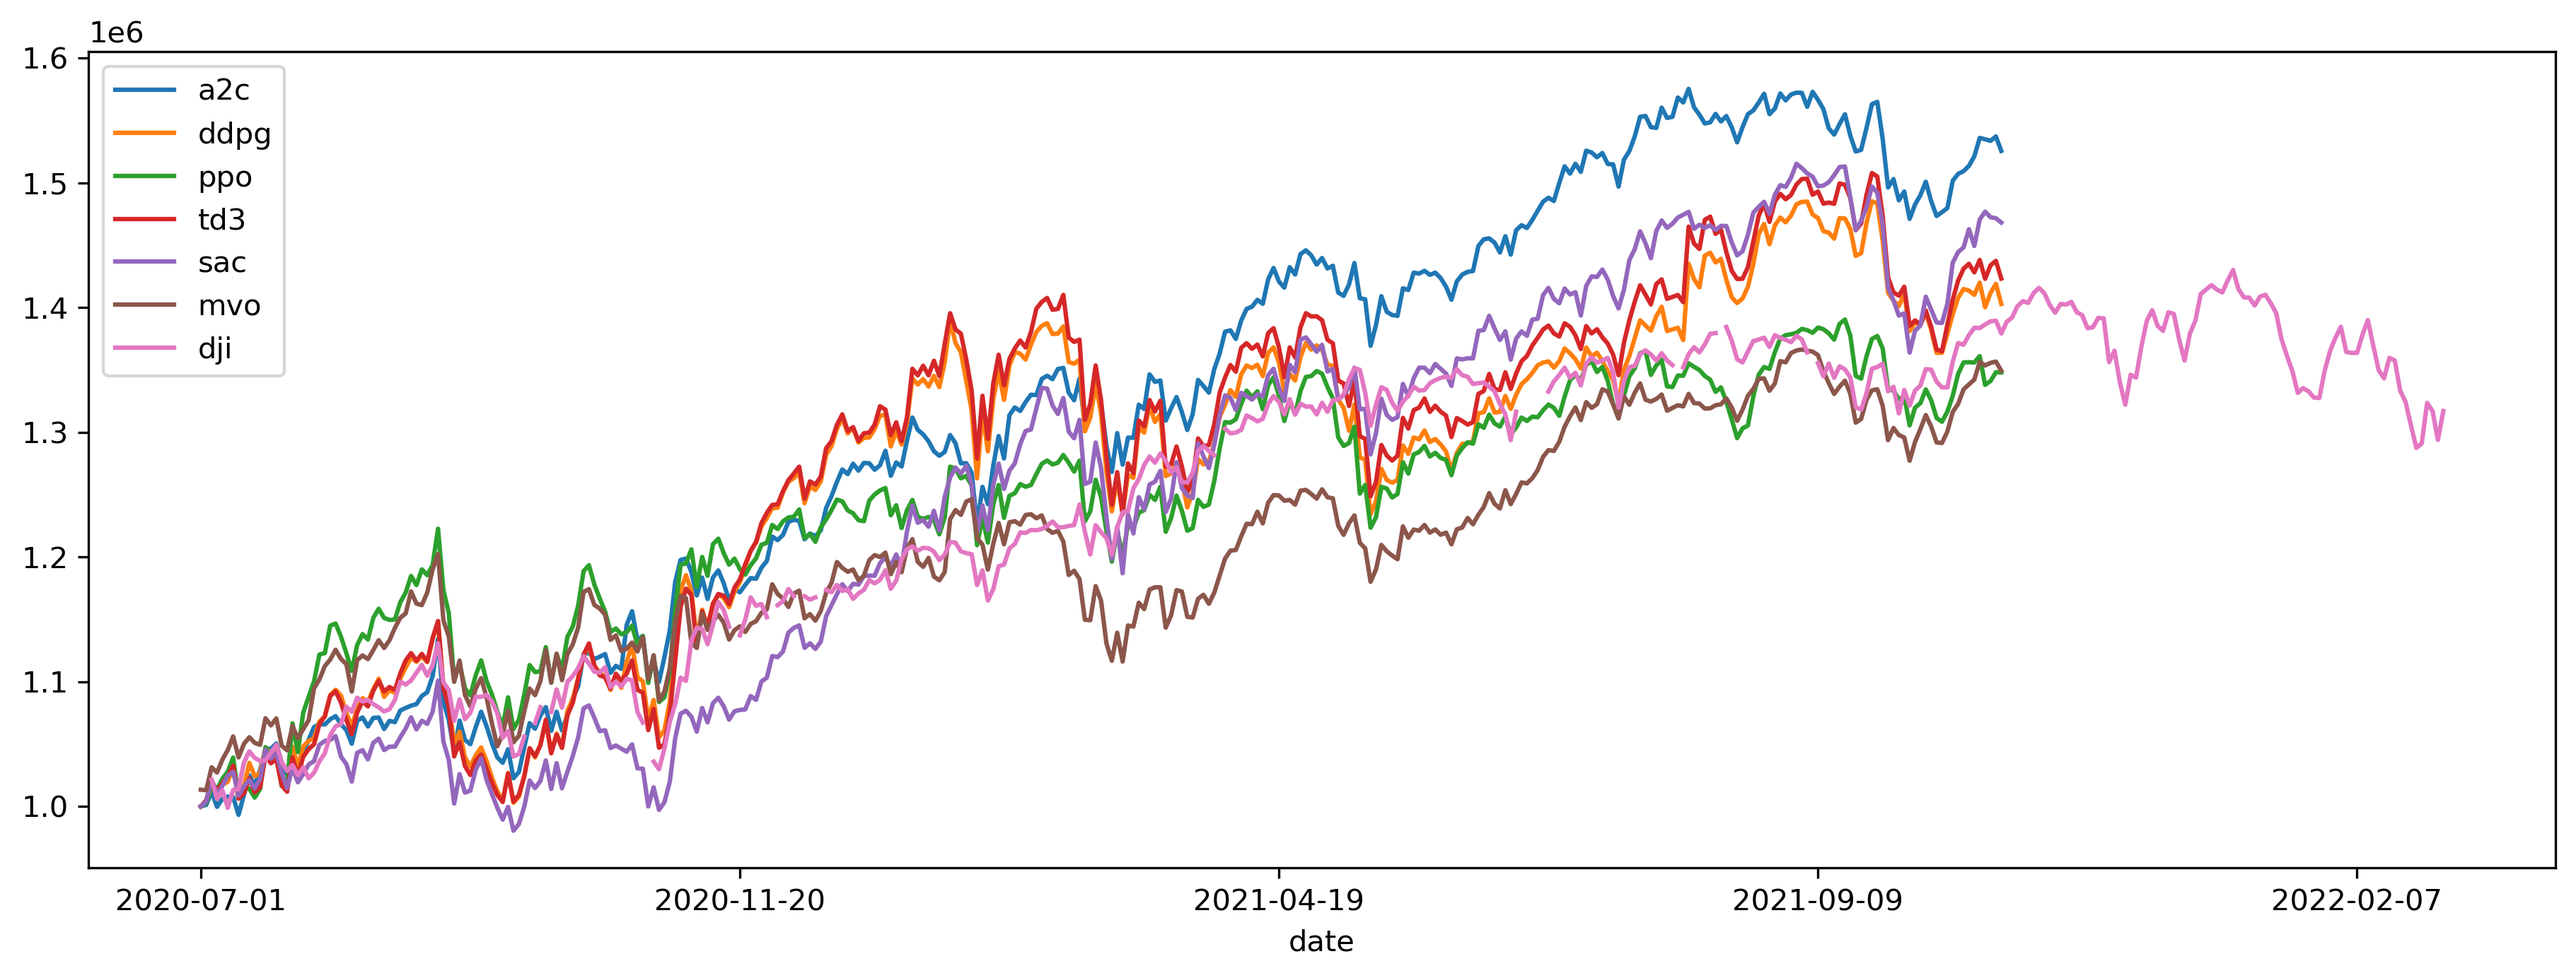
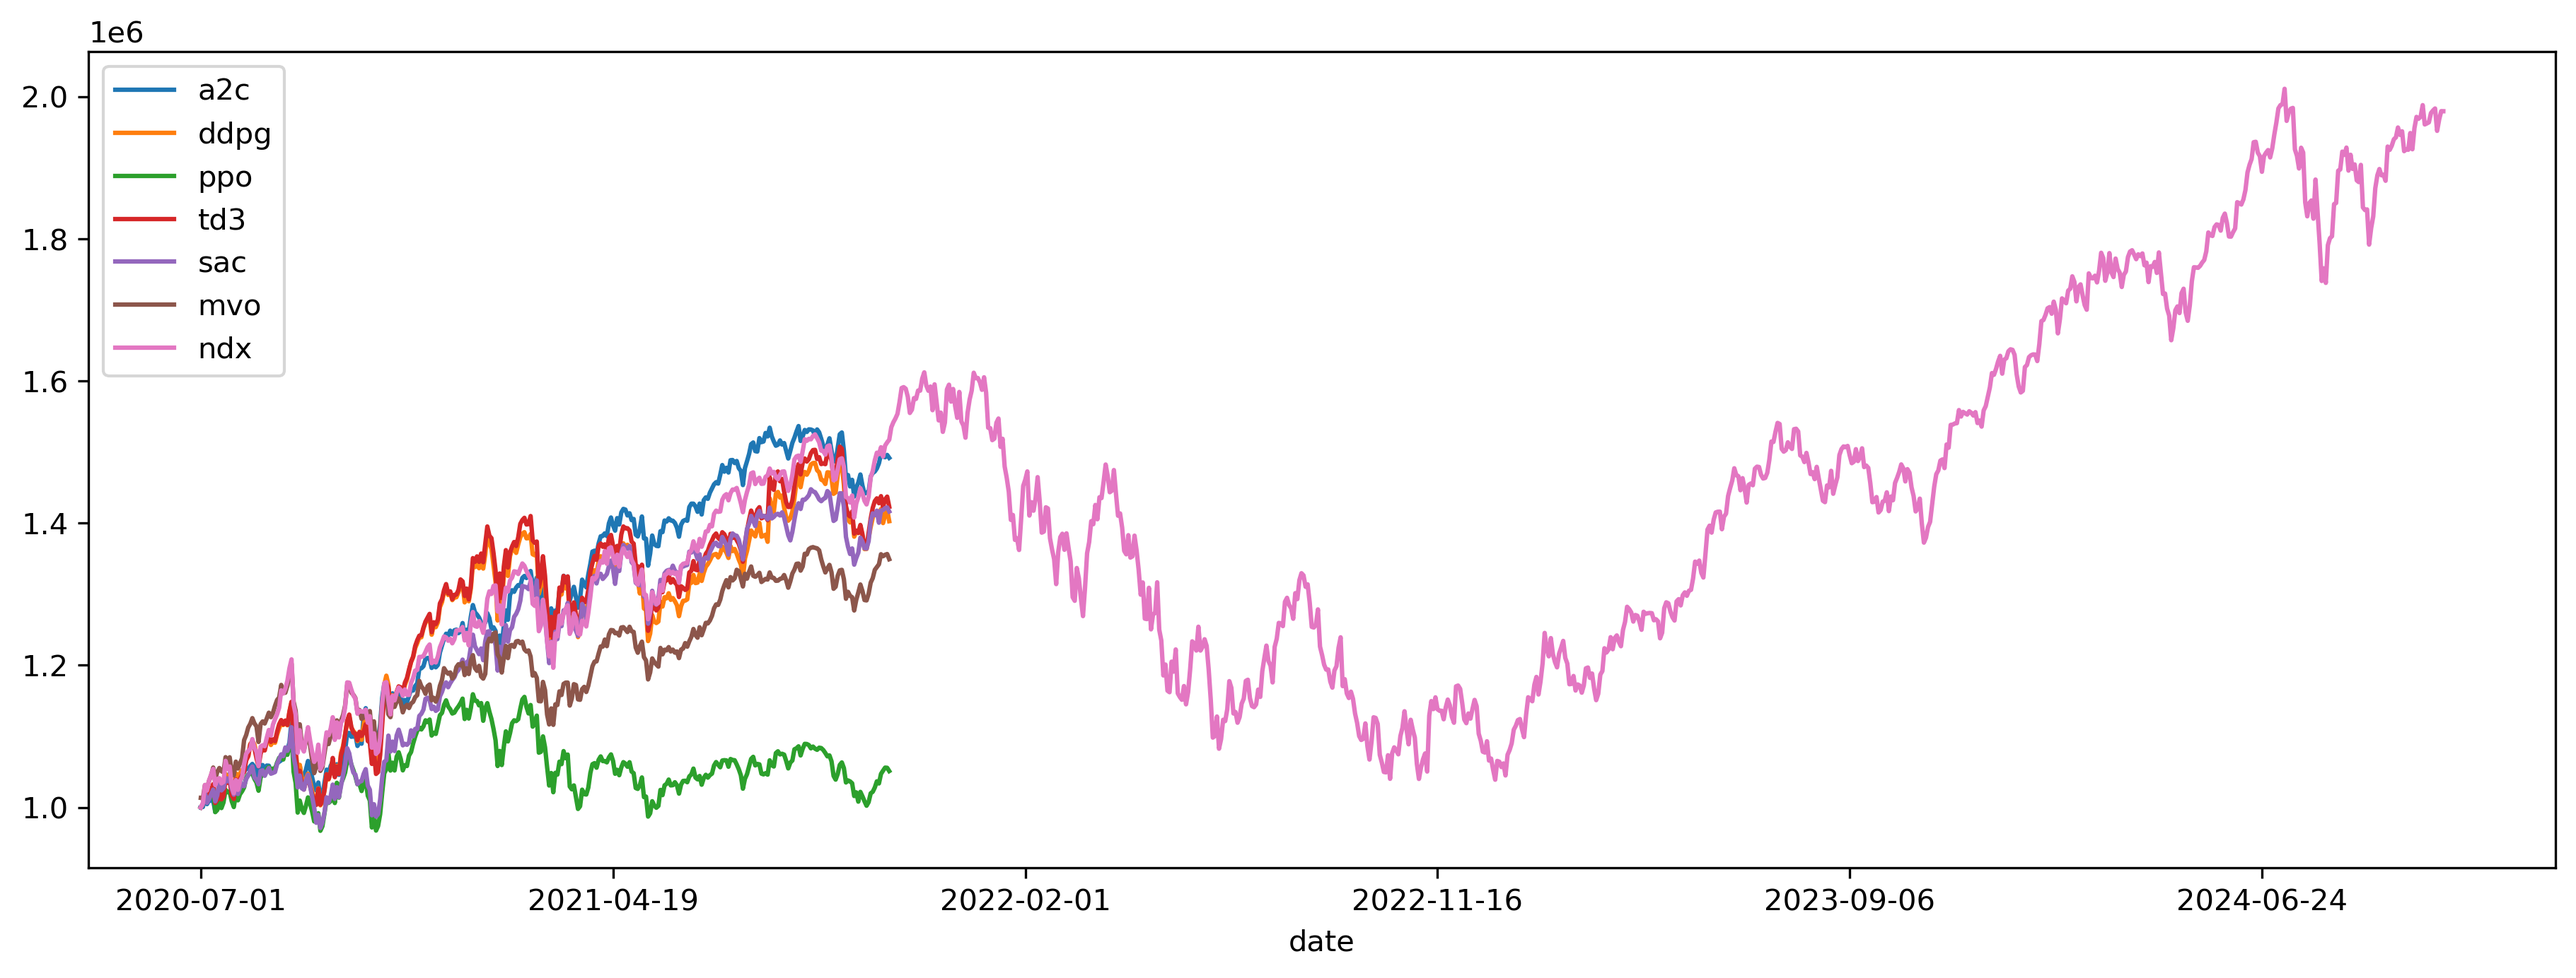
dji -> ndx

diff --git a/evan/finrl_stock_bt.py b/evan/finrl_stock_bt.py
@@ -55,7 +55,6 @@ env_kwargs = {
     "reward_scaling": 1e-4
 }
 
-print(f"trade: {trade}")
 e_trade_gym = StockTradingEnv(df = trade, turbulence_threshold = 70,risk_indicator_col='vix', **env_kwargs)
 # env_trade, obs_trade = e_trade_gym.get_sb_env()
 
@@ -143,21 +142,24 @@ TRAIN_END_DATE = '2020-07-01'
 TRADE_START_DATE = '2020-07-01'
 TRADE_END_DATE = '2024-10-29'
 
-df_dji = YahooDownloader(
-    start_date=TRADE_START_DATE, end_date=TRADE_END_DATE, ticker_list=["dji"]
+# df_dji = YahooDownloader(
+#     start_date=TRADE_START_DATE, end_date=TRADE_END_DATE, ticker_list=["dji"]
+# ).fetch_data()
+df_ndx = YahooDownloader(
+    start_date=TRADE_START_DATE, end_date=TRADE_END_DATE, ticker_list=["^NDX"]
 ).fetch_data()
 
-df_dji = df_dji[["date", "close"]]
-fst_day = df_dji["close"][0]
-dji = pd.merge(
-    df_dji["date"],
-    df_dji["close"].div(fst_day).mul(1000000),
+df_ndx = df_ndx[["date", "close"]]
+fst_day = df_ndx["close"][0]
+ndx = pd.merge(
+    df_ndx["date"],
+    df_ndx["close"].div(fst_day).mul(1000000),
     how="outer",
     left_index=True,
     right_index=True,
 ).set_index("date")
 
-print(f"dji: {dji}")
+print(f"ndx: {ndx}")
 
 df_result_a2c = (
     df_account_value_a2c.set_index(df_account_value_a2c.columns[0])
@@ -195,7 +197,7 @@ result = pd.DataFrame(
         "td3": df_result_td3["account_value"] if if_using_td3 else None,
         "sac": df_result_sac["account_value"] if if_using_sac else None,
         "mvo": MVO_result["Mean Var"],
-        "dji": dji["close"],
+        "ndx": ndx["close"],
     }
 )
 
